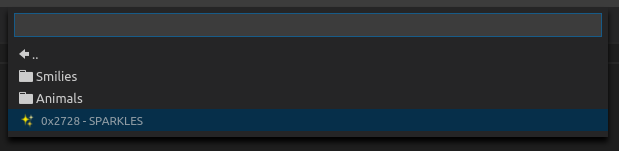
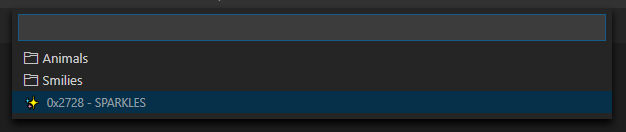
Make folders collapsible. Auto-sort directories. Add read-me image/text for favorites manager.

Changed region(s): [[0.0, 0.303, 0.9822, 0.8788], [0.0, 0.0606, 0.9822, 0.2727]]

diff --git a/src/commands/manage-favorites/components/directory.svelte b/src/commands/manage-favorites/components/directory.svelte
@@ -17,6 +17,10 @@
 		? 'favorites root folder'
 		: `"${name}"`;
 
+	$: sortedDirectories = node.directories.sort((a, b) =>
+		a.name.localeCompare(b.name, undefined, { sensitivity: 'base' })
+	);
+
 	function deleteDirectory()
 	{
 		dispatch('delete');
@@ -38,7 +42,8 @@
 			...node.directories,
 			{
 				name: 'New Folder',
-				content: { directories: [], items: [] },
+				content: { directories: [], items: [], isExpanded: true },
+
 			},
 		];
 		dispatch('change');
@@ -50,6 +55,17 @@
 			{ codes: [] },
 		];
 		dispatch('change');
+	}
+
+	function onBlur(e)
+	{
+		const newName = e.currentTarget.value;
+		if (newName == name)
+			return;
+
+		name = newName;
+
+		dispatch('change')
 	}
 </script>
 
@@ -64,13 +80,21 @@
 	}
 </style>
 
-{#if name}
+{#if name != null}
 	<div class="folder-label"
 		style="margin-left: {indent * indentSize}px">
-		{@html folderOpened}
+		<IconButton on:click={() => node.isExpanded = !node.isExpanded}
+			title={node.isExpanded ? "Collapse directory" : "Expand directory"}>
+			{#if node.isExpanded}
+				{@html folderOpened}
+			{:else}
+				{@html folder}
+			{/if}
+		</IconButton>
 		<input class="name"
-			bind:value={name}
-			on:input={() => dispatch('change')}/>
+			value={name}
+			placeholder="Unnamed Folder"
+			on:blur={onBlur}/>
 	</div>
 
 	<IconButton
@@ -80,32 +104,33 @@
 	</IconButton>
 {/if}
 
-{#each node.directories as childDirectory}
-	<svelte:self
-		bind:name={childDirectory.name}
-		node={childDirectory.content}
-		indent={indent + 1}
-		on:delete={() => deleteChildDirectory(childDirectory)}
-		on:change/>
-{/each}
+{#if node.isExpanded}
+	{#each node.directories as childDirectory}
+		<svelte:self
+			bind:name={childDirectory.name}
+			node={childDirectory.content}
+			indent={indent + 1}
+			on:delete={() => deleteChildDirectory(childDirectory)}
+			on:change/>
+	{/each}
 
-{#each node.items as item}
-	<Item
-		{item}
-		indent={indent + 1}
-		on:delete={() => deleteChildItem(item)}
-		on:change/>
-{/each}
+	{#each node.items as item}
+		<Item
+			{item}
+			indent={indent + 1}
+			on:delete={() => deleteChildItem(item)}
+			on:change/>
+	{/each}
 
 
+	<div style="margin-left: {(indent + 1) * indentSize}px">
+		<AddButton on:click={addFolder} title="Add new folder to {nameForTooltips}">
+			{@html folder}
+		</AddButton>
 
-<div style="margin-left: {(indent + 1) * indentSize}px">
-	<AddButton on:click={addFolder} title="Add new folder to {nameForTooltips}">
-		{@html folder}
-	</AddButton>
-
-	<AddButton on:click={addItem} title="Add new favorite entry to {nameForTooltips}">
-		{@html smiley}
-	</AddButton>
-</div>
-<div></div>
+		<AddButton on:click={addItem} title="Add new favorite entry to {nameForTooltips}">
+			{@html smiley}
+		</AddButton>
+	</div>
+	<div></div>
+{/if}

diff --git a/src/commands/manage-favorites/components/main.svelte b/src/commands/manage-favorites/components/main.svelte
@@ -20,6 +20,7 @@
 	{
 		const favoritesMessage = await messageBus.call('favorites', { type: 'get-favorites' });
 		favorites = fromSettings(favoritesMessage.favorites);
+		favorites.isExpanded = true;
 		isDirty = false;
 		saveState();
 	}
@@ -84,6 +85,12 @@
 </script>
 
 <style>
+	h1 {
+		font-size: 20px;
+		padding-bottom: 3px;
+		border-bottom: 1px solid;
+	}
+
 	.fav-tree {
 		display: inline-grid;
 		grid-template-columns: auto auto;

diff --git a/src/commands/manage-favorites/utility/favorites-transform.ts b/src/commands/manage-favorites/utility/favorites-transform.ts
@@ -5,6 +5,8 @@ interface FavoritesViewNode
 	directories: FavoritesDirectoryView[];
 
 	items: FavoritesItemView[];
+
+	isExpanded: boolean;
 }
 interface FavoritesDirectoryView
 {
@@ -39,6 +41,7 @@ export function fromSettings(node: FavoritesNode): FavoritesViewNode
 					codes: codes.map(c => typeof c === 'string' ? parseInt(c) : c),
 				}))
 			: [],
+		isExpanded: false,
 	};
 }
 

diff --git a/src/commands/manage-favorites/components/icon-button.svelte b/src/commands/manage-favorites/components/icon-button.svelte
@@ -6,6 +6,7 @@
 		color: var(--vscode-foreground);
 		border: 1px solid transparent;
 		padding: 3px;
+		cursor: pointer;
 	}
 	button:hover,
 	button:focus

diff --git a/src/commands/manage-favorites/components/add-button.svelte b/src/commands/manage-favorites/components/add-button.svelte
@@ -5,6 +5,7 @@
 		background: transparent;
 		border-radius: 3px;
 		padding: 3px 5px;
+		cursor: pointer;
 	}
 	button:hover,
 	button:focus {

diff --git a/README.md b/README.md
@@ -53,16 +53,23 @@ The "exact" directly inserts a given character, e.g. `FIRE`, which otherwise wou
 
 ### Insert From Favorites
 
-- *Manage Favorites* (`manageFavorites`)
 - *Insert from Favorites* (`insertFavoriteText`)
 - *Insert from Favorites as Decimal Code* (`insertFavoriteDecimalCode`)
 - *Insert from Favorites as Hex Code* (`insertFavoriteHexCode`)
+- *Manage Favorites* (`manageFavorites`)
 
 These commands insert characters from a favorites directory tree.
 
 ![favorites](./readme-files/favorites.png)
 
-Favorites can be configured via the *Manage Favorites* command.
+Favorites can be configured via the *Manage Favorites* command, which opens an editor:
+
+![favorites](./readme-files/favorites-manager.png)
+
+The buttons prefixed with `+` add new directories/favorite entries respectively. `x` removes directories/favorites. Clicking the folder icon in front of the directory name expands/collapses the contents. Directories can be renamed by clicking the name and editing it.
+
+`Save` (Ctrl+S) saves changes to the settings file.<br/>
+`Revert` reloads the favorites from the settings, discarding any changes.
 
 ### Inserting/Replacing Text With a "Unicode Font"
 
